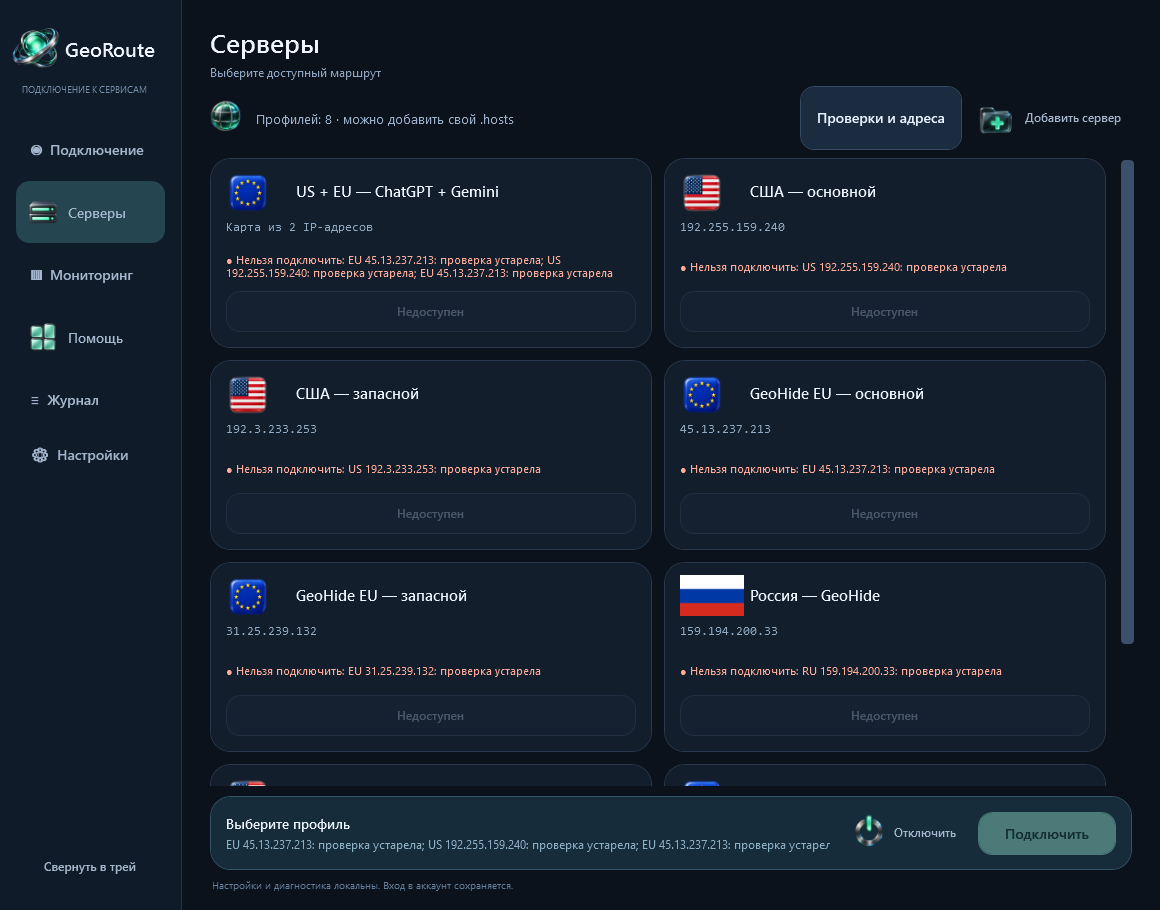
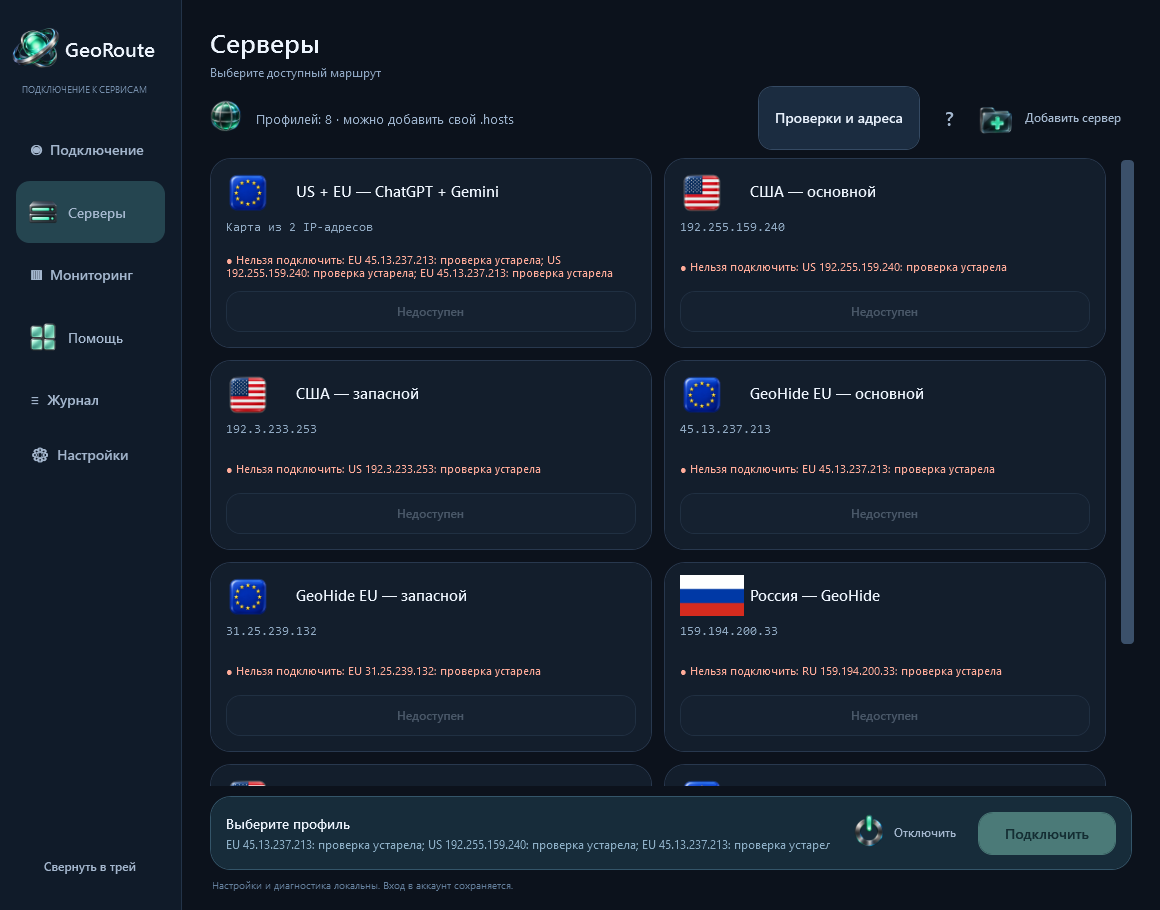
GeoRoute 0.3.1: explain custom profile import in app and README

Changed region(s): [[0.6517, 0.0923, 0.8379, 0.1846]]

diff --git a/clients/windows/_service/ProfileHelp.xaml b/clients/windows/_service/ProfileHelp.xaml
@@ -1,0 +1,39 @@
+<Window xmlns="http://schemas.microsoft.com/winfx/2006/xaml/presentation" xmlns:x="http://schemas.microsoft.com/winfx/2006/xaml"
+        Title="Как добавить профиль — GeoRoute" Width="650" Height="730" MinWidth="460" MinHeight="420" WindowStartupLocation="CenterOwner"
+        Background="#0F1825" Foreground="#EEF4FC" FontFamily="Segoe UI" FontSize="14" ShowInTaskbar="False" UseLayoutRounding="True" SnapsToDevicePixels="True">
+  <Window.Resources>
+    <Style TargetType="TextBlock"><Setter Property="TextWrapping" Value="Wrap"/><Setter Property="LineHeight" Value="23"/></Style>
+    <Style x:Key="Step" TargetType="TextBlock"><Setter Property="FontSize" Value="16"/><Setter Property="FontWeight" Value="SemiBold"/><Setter Property="Margin" Value="0,20,0,6"/></Style>
+    <Style x:Key="Description" TargetType="TextBlock"><Setter Property="Foreground" Value="#B9CBE0"/><Setter Property="TextWrapping" Value="Wrap"/><Setter Property="LineHeight" Value="23"/></Style>
+  </Window.Resources>
+  <Grid Margin="26" Background="#0F1825">
+    <Grid.RowDefinitions><RowDefinition Height="Auto"/><RowDefinition Height="*"/><RowDefinition Height="Auto"/></Grid.RowDefinitions>
+    <StackPanel Margin="0,0,0,16">
+      <TextBlock Text="Как добавить профиль" FontSize="25" FontWeight="SemiBold"/>
+      <TextBlock Text="Профиль — это готовый список адресов для подключения к сервисам." Style="{StaticResource Description}" Margin="0,8,0,0"/>
+    </StackPanel>
+    <ScrollViewer Grid.Row="1" VerticalScrollBarVisibility="Auto" HorizontalScrollBarVisibility="Disabled">
+      <StackPanel Margin="0,0,16,16">
+        <Border Background="#1B3440" CornerRadius="14" Padding="16">
+          <TextBlock Text="Для обычного подключения ничего добавлять не нужно. В разделе «Серверы» уже есть профили ChatGPT и Gemini. Выберите подходящий и нажмите «Включить» на главной." Foreground="#B6F3DF"/>
+        </Border>
+        <TextBlock Text="1. Получите готовый файл" Style="{StaticResource Step}"/>
+        <TextBlock Text="Попросите файл профиля с окончанием .hosts у человека или сервиса, которому доверяете. Сохраните его, например, в «Загрузки». Создавать сервер или разбираться в содержимом файла не требуется. Ключи VPN и архивы ZIP сюда не подходят." Style="{StaticResource Description}"/>
+        <TextBlock Text="2. Выберите файл в GeoRoute" Style="{StaticResource Step}"/>
+        <TextBlock Text="Откройте «Серверы» → «Добавить сервер» → «Выбрать файл…» и найдите сохранённый .hosts. Если он находится внутри ZIP, сначала распакуйте архив." Style="{StaticResource Description}"/>
+        <TextBlock Text="3. Дайте профилю понятное имя" Style="{StaticResource Step}"/>
+        <TextBlock Text="Например, «Мой Gemini». Укажите страну, которую сообщил поставщик файла. Она нужна для подписи и флага — выбор страны сам по себе не переносит сервер в другую страну. Нажмите «Добавить сервер»." Style="{StaticResource Description}"/>
+        <TextBlock Text="4. Включите подключение" Style="{StaticResource Step}"/>
+        <TextBlock Text="В списке появится новая карточка. Нажмите на ней «Выбрать», вернитесь в «Подключение» и нажмите «Включить». Подтвердите запрос Windows. Можно также нажать «Подключить» в разделе «Серверы». Одно добавление файла подключение не меняет." Style="{StaticResource Description}"/>
+        <TextBlock Text="Если у вас только IP-адрес" Style="{StaticResource Step}"/>
+        <TextBlock Text="Для изменения общей пары US + EU откройте «Мониторинг» и разверните «Адреса US + EU» под списком. Выберите «Вручную» и укажите адреса US и EU. Новый адрес сначала сохраните без подключения и проверьте кнопкой «Проверить серверы». Затем нажмите «Сохранить и подключить». Добавление IP в мониторинг само по себе не создаёт профиль." Style="{StaticResource Description}"/>
+        <TextBlock Text="Если файл не добавляется" Style="{StaticResource Step}"/>
+        <TextBlock Text="Прочитайте сообщение под полями и передайте его тому, кто дал вам файл. GeoRoute принимает профили только для поддерживаемых сервисов ChatGPT / OpenAI и Gemini. Если файл заканчивается на .txt, попросите версию .hosts. Размер файла — до 1 МБ." Style="{StaticResource Description}"/>
+        <Border Background="#2D2A25" CornerRadius="14" Padding="16" Margin="0,20,0,0">
+          <TextBlock Text="Добавление проверяет содержимое файла, но не подтверждает работу чужого сервера. Пользовательские профили не заменяются автоподбором GeoHide. Если такой сервер перестал работать, потребуется новый файл или адрес от его поставщика." Foreground="#F6D595"/>
+        </Border>
+      </StackPanel>
+    </ScrollViewer>
+    <Button Grid.Row="2" x:Name="CloseProfileHelpButton" Content="Понятно" IsCancel="True" IsDefault="True" HorizontalAlignment="Right" MinWidth="125" Margin="0,16,0,0"/>
+  </Grid>
+</Window>

diff --git a/clients/windows/_service/ImportDialog.xaml b/clients/windows/_service/ImportDialog.xaml
@@ -1,5 +1,5 @@
-<Window xmlns="http://schemas.microsoft.com/winfx/2006/xaml/presentation" xmlns:x="http://schemas.microsoft.com/winfx/2006/xaml"
-        Title="Добавить сервер — NextDNS" Width="610" Height="590" ResizeMode="NoResize" WindowStartupLocation="CenterOwner"
+<Window xmlns="http://schemas.microsoft.com/winfx/2006/xaml/presentation" xmlns:x="http://schemas.microsoft.com/winfx/2006/xaml"
+        Title="Добавить сервер — GeoRoute" Width="610" Height="590" ResizeMode="NoResize" WindowStartupLocation="CenterOwner"
         Background="#0F1825" Foreground="#EEF4FC" FontFamily="Segoe UI" FontSize="14" ShowInTaskbar="False">
   <Window.Resources>
     <Style TargetType="TextBox"><Setter Property="Background" Value="#18283B"/><Setter Property="Foreground" Value="#EEF4FC"/><Setter Property="BorderBrush" Value="#3D536C"/><Setter Property="BorderThickness" Value="1"/><Setter Property="Padding" Value="11,8"/><Setter Property="VerticalContentAlignment" Value="Center"/><Setter Property="CaretBrush" Value="#91F2D2"/></Style>
@@ -12,7 +12,10 @@
   </Window.Resources>
   <Grid Margin="28,23,28,24" Background="#0F1825">
     <Grid.RowDefinitions><RowDefinition Height="72"/><RowDefinition Height="27"/><RowDefinition Height="66"/><RowDefinition Height="18"/><RowDefinition Height="26"/><RowDefinition Height="42"/><RowDefinition Height="16"/><RowDefinition Height="26"/><RowDefinition Height="42"/><RowDefinition Height="*"/><RowDefinition Height="46"/></Grid.RowDefinitions>
-    <StackPanel Orientation="Horizontal"><Image x:Name="DialogImportIcon" Width="58" Height="58" Margin="0,0,13,0"/><StackPanel VerticalAlignment="Center"><TextBlock Text="Добавить сервер" FontSize="24" FontWeight="SemiBold"/><TextBlock Text="Свой профиль из файла .hosts" Foreground="#9CAEC4" FontSize="13" Margin="0,5,0,0"/></StackPanel></StackPanel>
+    <Grid><Grid.ColumnDefinitions><ColumnDefinition Width="*"/><ColumnDefinition Width="Auto"/></Grid.ColumnDefinitions>
+      <StackPanel Orientation="Horizontal"><Image x:Name="DialogImportIcon" Width="58" Height="58" Margin="0,0,13,0"/><StackPanel VerticalAlignment="Center"><TextBlock Text="Добавить сервер" FontSize="24" FontWeight="SemiBold"/><TextBlock Text="Свой профиль из файла .hosts" Foreground="#9CAEC4" FontSize="13" Margin="0,5,0,0"/></StackPanel></StackPanel>
+      <Button Grid.Column="1" x:Name="ImportHelpButton" Content="?" Width="38" Height="38" FontSize="20" VerticalAlignment="Center" ToolTip="Как добавить профиль: пошаговая инструкция" AutomationProperties.Name="Инструкция по добавлению профиля"/>
+    </Grid>
     <TextBlock Grid.Row="1" Text="Файл настройки" Foreground="#B9CBE0" FontSize="12"/>
     <Grid Grid.Row="2"><Grid.ColumnDefinitions><ColumnDefinition Width="*"/><ColumnDefinition Width="14"/><ColumnDefinition Width="Auto"/></Grid.ColumnDefinitions>
       <Border Background="#152235" BorderBrush="#31465E" BorderThickness="1" CornerRadius="7" Padding="12,9"><StackPanel VerticalAlignment="Center"><TextBlock x:Name="SelectedFileText" Text="Файл не выбран" TextTrimming="CharacterEllipsis" FontSize="13"/><TextBlock x:Name="FileStatsText" Text="Поддерживаются текстовые .hosts" Foreground="#8FA6C1" FontSize="11" Margin="0,5,0,0"/></StackPanel></Border>

diff --git a/clients/windows/_service/Window.xaml b/clients/windows/_service/Window.xaml
@@ -564,6 +564,7 @@
           </StackPanel>
           <StackPanel Grid.Column="1" Orientation="Horizontal">
             <Button x:Name="GeoNavButton" Content="Проверки и адреса" Style="{StaticResource ActionButton}" Margin="0,0,10,0" />
+            <Button x:Name="ProfileHelpButton" Content="?" Style="{StaticResource QuietButton}" FontSize="20" MinWidth="38" Margin="0,0,4,0" ToolTip="Как добавить свой профиль" AutomationProperties.Name="Инструкция: как добавить профиль" />
             <Button x:Name="ImportButton" Style="{StaticResource QuietButton}" HorizontalAlignment="Right" Padding="3,0,10,0" Margin="0" Grid.Column="0">
               <StackPanel Orientation="Horizontal">
                 <Image x:Name="ImportIcon" Width="44" Height="44" Margin="0,0,5,0" />

diff --git a/clients/windows/_service/NextDNS.Launcher.cs b/clients/windows/_service/NextDNS.Launcher.cs
@@ -1,4 +1,4 @@
-using System;
+using System;
 using System.Collections;
 using System.Globalization;
 using System.IO;
@@ -15,8 +15,8 @@ using System.Security.Principal;
 [assembly: AssemblyTitle("GeoRoute")]
 [assembly: AssemblyDescription("GeoRoute — GeoHide profiles and monitoring")]
 [assembly: AssemblyProduct("GeoRoute")]
-[assembly: AssemblyVersion("0.3.0.0")]
-[assembly: AssemblyFileVersion("0.3.0.0")]
+[assembly: AssemblyVersion("0.3.1.0")]
+[assembly: AssemblyFileVersion("0.3.1.0")]
 
 namespace NextDNS.Desktop
 {

diff --git a/README.md b/README.md
@@ -8,7 +8,7 @@
 
 ## Начать пользоваться
 
-1. На странице релиза скачайте **GeoRoute-Windows-x64-0.3.0.zip**. «Source code» скачивать не нужно.
+1. На странице релиза скачайте **GeoRoute-Windows-x64-0.3.1.zip**. «Source code» скачивать не нужно.
 2. Нажмите на ZIP правой кнопкой → **Извлечь всё**. Сохраните всю папку, например в `Документы\GeoRoute`.
 3. Откройте **GeoRoute.exe**. Устанавливать Python или Java не требуется.
 4. Подождите первую проверку серверов. В разделе **Серверы** выберите доступный маршрут.
@@ -24,6 +24,47 @@
 - **Помощь** — объяснение DNS-кеша и помощник при проблемах с GIF, видео и ZIP. Подробная диагностика свёрнута.
 - **Журнал** — история действий отдельно от главного экрана.
 - **Настройки** — запуск в трее, анимации и дополнительные возможности.
+
+## Как добавить собственный профиль
+
+Кнопка **?** рядом с «Добавить сервер» и в окне импорта открывает пошаговую инструкцию. Встроенные профили уже готовы к использованию; импорт нужен для собственного списка адресов.
+
+1. Подготовьте обычный текстовый файл с расширением **`.hosts`** в UTF-8. ZIP сначала распакуйте. VPN-ссылки, `.ovpn`, JSON и файл `.hosts.txt` не подходят.
+2. Откройте **Серверы → Добавить сервер → Выбрать файл…**.
+3. Укажите название и страну/регион, затем нажмите **Добавить сервер**. Регион задаёт подпись и флаг, а не меняет географию сервера.
+4. На новой карточке нажмите **Выбрать**, затем на главной **Включить** и подтвердите Windows. Сам импорт не меняет системный hosts, DNS или активное подключение.
+
+### Формат файла
+
+Каждая строка содержит публичный IP и одно или несколько точных доменных имён, разделённых пробелами. Пустые строки и комментарии после `#` допускаются. Пример синтаксиса:
+
+```text
+# Демонстрационные адреса: замените их на рабочие адреса вашего сервера.
+203.0.113.10 chatgpt.com www.chatgpt.com
+203.0.113.10 auth.openai.com
+203.0.113.20 files.oaiusercontent.com
+203.0.113.20 gemini.google.com
+203.0.113.20 gemini.google
+203.0.113.20 bard.google.com
+203.0.113.20 geminiweb-pa.clients.google.com
+203.0.113.20 geminiweb-pa.clients6.google.com
+203.0.113.20 generativelanguage.googleapis.com
+203.0.113.20 geller-pa.googleapis.com
+203.0.113.20 proactivebackend-pa.googleapis.com
+203.0.113.20 robinfrontend-pa.googleapis.com
+```
+
+Это пример формата, а не готовый рабочий профиль: адреса `203.0.113.*` используются только для документации. Для полного ChatGPT-профиля берите текущий [встроенный список доменов](clients/windows/_service/profiles/us-eu.hosts) и актуальные адреса GeoHide или своего совместимого сервера. Обычный произвольный IP не становится Smart DNS от добавления в файл.
+
+Ограничения импорта:
+
+- До **1 МиБ**, от **1 до 512 уникальных доменов**; повторяющийся домен отклоняется, даже если IP одинаковый.
+- Публичный IPv4 или IPv6; loopback, частные и локальные адреса отклоняются. URL, порты, маски сети и `*.` вместо точного домена не поддерживаются.
+- Разрешены `chatgpt.com`, `openai.com`, `oaistatic.com`, `oaiusercontent.com` и их поддомены; для Gemini — только [точный список поддерживаемых имён](clients/windows/_service/GeoServices.ps1). Общие `google.com`, `accounts.google.com`, Gmail и произвольные Google API не разрешены.
+- Приложение копирует профиль в `_service/profiles/` и регистрирует его в `_service/profiles.json`. Исходный файл после импорта не нужен. Прямое редактирование этих файлов не требуется.
+- Импорт проверяет синтаксис и допустимые домены, **не доступность сервера**. Пользовательская карточка не получает автоматическую замену IP от GeoHide; при отказе нужен обновлённый профиль от поставщика.
+
+Если имеется только новый IP GeoHide, для общей пары откройте **Мониторинг → Адреса US + EU → Вручную**. Сначала сохраните новый адрес без подключения и выполните проверку, затем нажмите **Сохранить и подключить**. Кнопка добавления IP в мониторинг добавляет узел для проверок, а не создаёт отдельную карточку профиля.
 
 ## Как работает подбор адресов
 

diff --git a/docs/DEVELOPMENT.md b/docs/DEVELOPMENT.md
@@ -4,10 +4,10 @@ Windows client source: `clients/windows/_service`. PowerShell scripts require Wi
 
 ```powershell
 .\clients\windows\tests\Run-Tests.ps1 -PythonExe python.exe
-.\clients\windows\Build.ps1 -PythonExe python.exe -Version 0.3.0
+.\clients\windows\Build.ps1 -PythonExe python.exe -Version 0.3.1
 ```
 
-The build produces `clients/windows/dist/GeoRoute-Windows-x64-0.3.0.zip` and its SHA-256. Package verification rejects private user paths, account-specific NextDNS URLs, runtime state/logs/backups, and inconsistent runtime hashes.
+The build produces `clients/windows/dist/GeoRoute-Windows-x64-0.3.1.zip` and its SHA-256. Package verification rejects private user paths, account-specific NextDNS URLs, runtime state/logs/backups, and inconsistent runtime hashes.
 
 `GeoAvailability.ps1` owns regional eligibility, profile requirements and provider-list replacement. `GeoHide.ps1` writes prepared profiles; `Profiles.ps1` is the existing elevated hosts apply/restore boundary. `Home.ps1` distinguishes off/checking/ready/unavailable using actual managed hosts plus current probe evidence. Ordinary hosts mode does not require wildcard NextDNS rewrite checks. The optional bridge retains its separate diagnostics.
 

diff --git a/docs/releases/v0.3.1.md b/docs/releases/v0.3.1.md
@@ -1,0 +1,7 @@
+# GeoRoute 0.3.1
+
+Добавлена кнопка **?** рядом с «Добавить сервер» и в окне импорта. Она открывает понятную пошаговую инструкцию внутри приложения: где взять файл, как его добавить, выбрать и включить. Справка работает без интернета.
+
+В README добавлены технический формат `.hosts`, пример, допустимые домены и ограничения. Выбор файла теперь соответствует импорту: `.hosts` размером до 1 МиБ.
+
+Скачайте **GeoRoute-Windows-x64-0.3.1.zip**, распакуйте всю папку и откройте **GeoRoute.exe**. Для обновления сохраните свои профили и настройки, как описано в [инструкции](https://github.com/Georgy-hook/GeoRoute/blob/main/docs/INSTALL.ru.md). Импорт профиля сам по себе не включает подключение.

diff --git a/README.en.md b/README.en.md
@@ -17,3 +17,5 @@ A green check proves the tested HTTPS transport/configuration only, not an authe
 [Installation guide](docs/INSTALL.ru.md) · [Verification limits](clients/windows/VERIFICATION.md) · [Development](docs/DEVELOPMENT.md) · [Changelog](CHANGELOG.md).
 
 Based on [noVibe/DnsConf](https://github.com/noVibe/DnsConf). The upstream cloud DNS tools remain available separately: [technical manual](DNS-CONFIGURER.md). No NextDNS account or API key is needed for the ordinary desktop hosts mode. GeoRoute is an independent client, not an official GeoHide/NextDNS product.
+
+Custom profiles: use the **?** button beside **Add server** for the in-app guide, or see the [file format and import limits](README.md#как-добавить-собственный-профиль). Import accepts `.hosts` files up to 1 MiB with 1–512 unique, supported exact domains. Importing adds a local profile without changing the active system configuration; selecting and connecting is a separate action. Custom profiles do not participate in automatic GeoHide endpoint replacement.

diff --git a/docs/INSTALL.ru.md b/docs/INSTALL.ru.md
@@ -2,7 +2,7 @@
 
 ## 1. Скачать
 
-Откройте [готовые релизы](https://github.com/Georgy-hook/GeoRoute/releases/latest) и скачайте файл **GeoRoute-Windows-x64-0.3.0.zip** в разделе Assets. Архивы **Source code** предназначены для разработчиков.
+Откройте [готовые релизы](https://github.com/Georgy-hook/GeoRoute/releases/latest) и скачайте файл **GeoRoute-Windows-x64-0.3.1.zip** в разделе Assets. Архивы **Source code** предназначены для разработчиков.
 
 ## 2. Распаковать
 

diff --git a/CHANGELOG.md b/CHANGELOG.md
@@ -1,5 +1,11 @@
 # Changelog
 
+## 0.3.1 — 2026-11-05
+
+- Add an accessible **?** help button beside profile import and inside the import dialog, with an offline, scrollable, plain-language guide.
+- Document the profile file format, supported domains, import limits and custom-profile update behavior in README.
+- Align the file picker and size check with the backend: `.hosts` only, up to 1 MiB.
+
 ## 0.3.0 — 2026-11-05
 
 - Add Monitoring to the sidebar and move the manual-address editor below results in a collapsed section.
